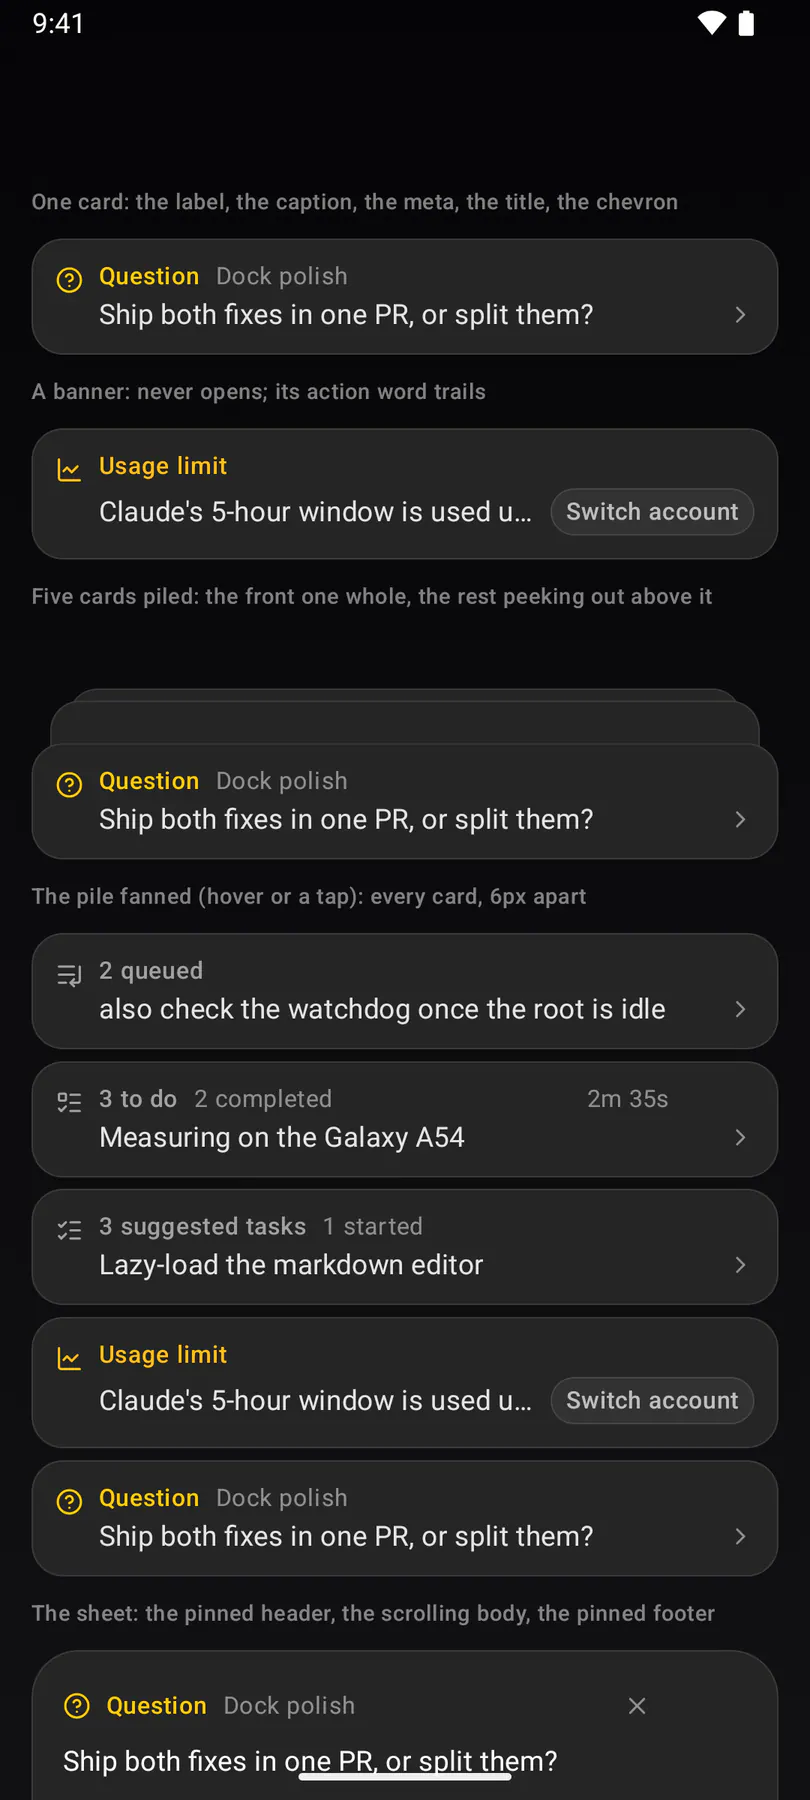
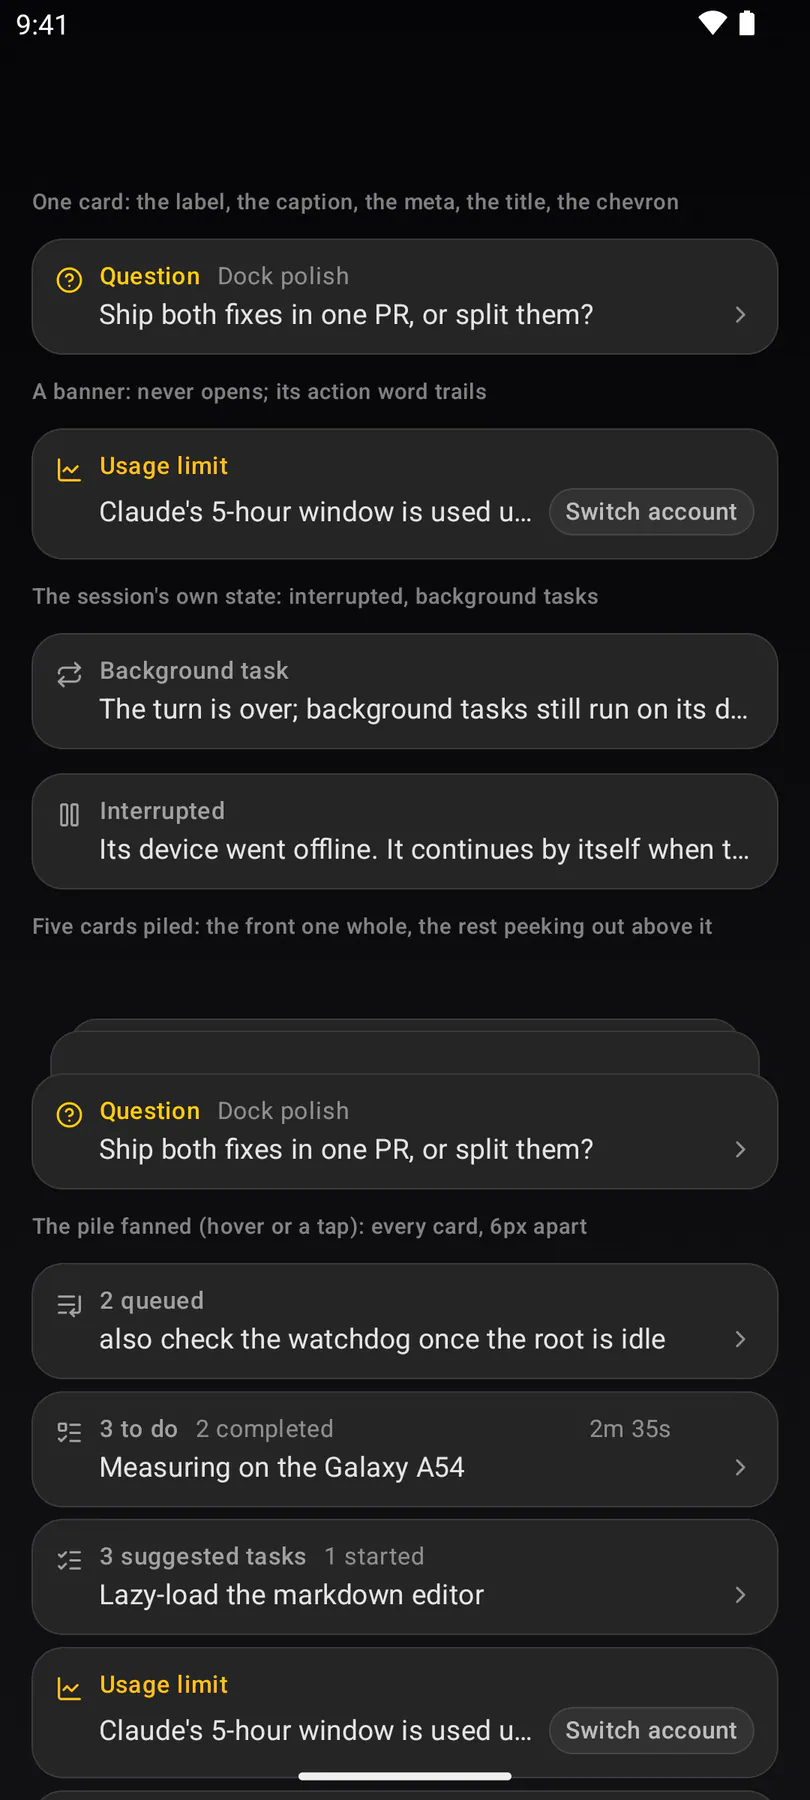
EXP-1374: Android Dock resolves the run-pause and trace-background concepts; the android dock-card shot

diff --git a/apps/android/app/src/main/java/com/exponential/app/ui/components/Dock.kt b/apps/android/app/src/main/java/com/exponential/app/ui/components/Dock.kt
@@ -108,6 +108,9 @@ internal fun dockIcon(concept: String): ImageVector = when (concept) {
     "ui-device-offline" -> ExpIcons.uiDeviceOffline
     "ui-refresh" -> ExpIcons.uiRefresh
     "ui-loading" -> ExpIcons.uiLoading
+    // EXP-1374: the session's own state cards (session-card.json `icons`).
+    "run-pause" -> ExpIcons.runPause
+    "trace-background" -> ExpIcons.traceBackground
     else -> ExpIcons.uiInfo
 }
 
